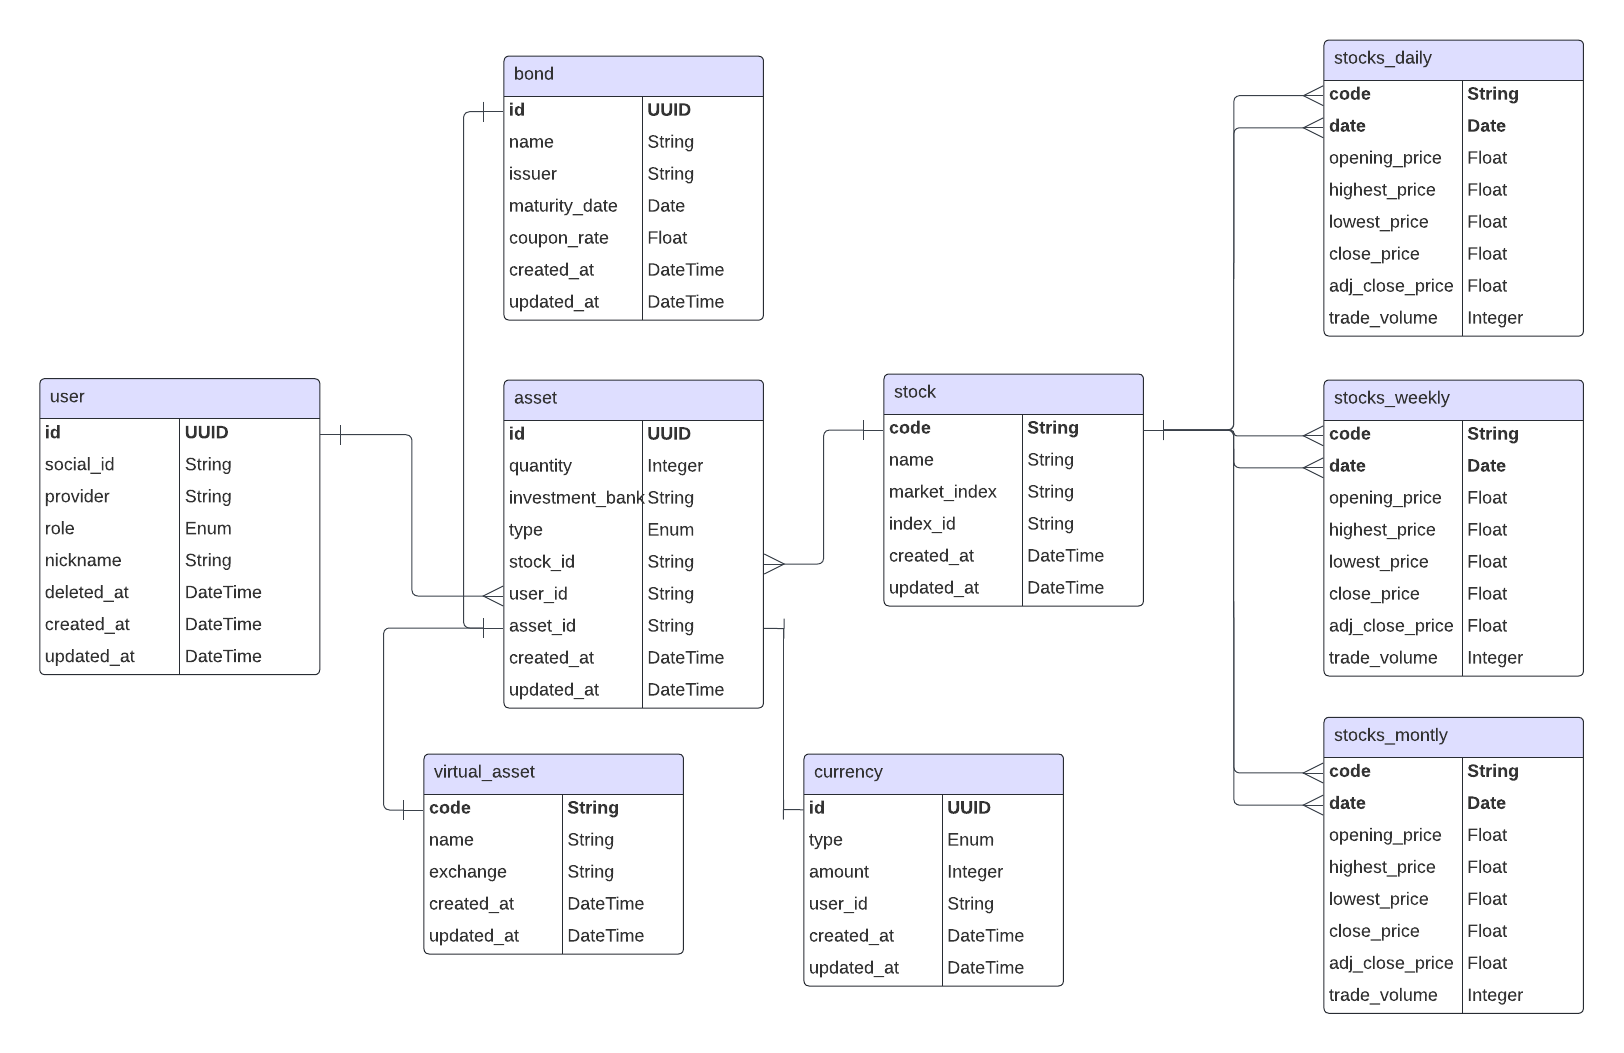
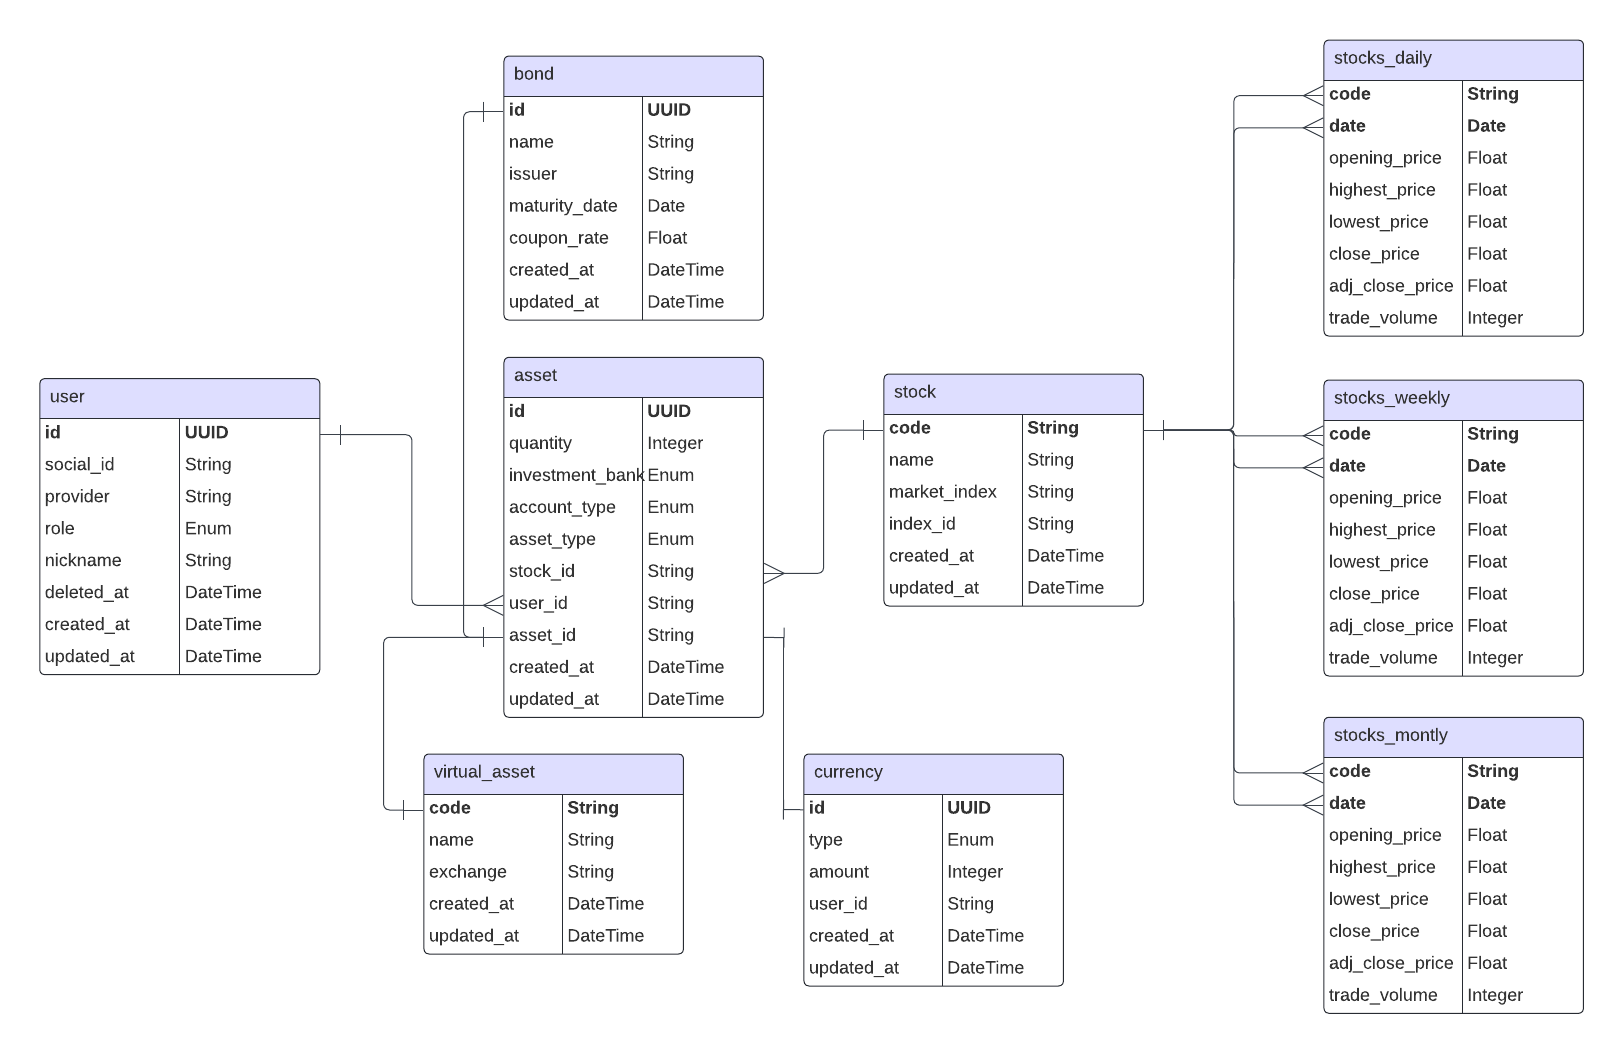
GROW-4 fix : erd asset table field > include account_type

Changed region(s): [[0.2463, 0.3343, 0.4926, 0.699], [0.4618, 0.5166, 0.4926, 0.547]]

diff --git a/backend/test/app/modules/auth/test_repository.py b/backend/test/app/modules/auth/test_repository.py
@@ -3,23 +3,23 @@ from uuid import uuid4
 
 import pytest
 
-from app.common.auth.constants import REDIS_EXPIRE_TIME
-from app.modules.auth.enums import ProviderEnum, UserRoleEnum
-from app.modules.auth.models import User as UserModel
-from app.modules.auth.repository import RedisTokenRepository
+from app.common.auth.constant import REDIS_EXPIRE_TIME_SECOND
+from app.module.auth.enum import ProviderEnum, UserRoleEnum
+from app.module.auth.model import User as UserModel
+from app.module.auth.repository import RedisJWTTokenRepository
 
 
 @pytest.mark.asyncio
 class RedisTokenRepositoryTest:
     async def test_save_token(mock_redis):
-        token_repository = RedisTokenRepository(redis_client=mock_redis)
-        await token_repository.save("user_id", "token_value", REDIS_EXPIRE_TIME)
+        token_repository = RedisJWTTokenRepository(redis_client=mock_redis)
+        await token_repository.save("user_id", "token_value", REDIS_EXPIRE_TIME_SECOND)
         mock_redis.set.assert_called_once_with("user_id", "token_value")
-        mock_redis.expire.assert_called_once_with("user_id", REDIS_EXPIRE_TIME)
+        mock_redis.expire.assert_called_once_with("user_id", REDIS_EXPIRE_TIME_SECOND)
 
     async def test_get_token(mock_redis):
         mock_redis.get.return_value = "token_value"
-        token_repository = RedisTokenRepository(redis_client=mock_redis)
+        token_repository = RedisJWTTokenRepository(redis_client=mock_redis)
         token = await token_repository.get("user_id")
         assert token == "token_value"
         mock_redis.get.assert_called_once_with("user_id")

diff --git a/backend/app/module/asset/model.py b/backend/app/module/asset/model.py
@@ -3,8 +3,8 @@ from uuid import uuid4
 from sqlalchemy import Column, Date, Enum, Float, ForeignKey, Integer, PrimaryKeyConstraint, String, UniqueConstraint
 from sqlalchemy.orm import relationship
 
-from app.common.mixins.timestamps import TimestampMixin
-from app.modules.asset.enum import AssetType, CurrencyType, VirtualExchangeType
+from app.common.mixin.timestamp import TimestampMixin
+from app.module.asset.enum import AccountType, AssetType, CurrencyType, InvestmentBankType, VirtualExchangeType
 from database.config import MySQLBase
 
 
@@ -17,7 +17,8 @@ class Asset(TimestampMixin, MySQLBase):
 
     id = Column(String(36), primary_key=True, default=get_uuid)
     quantity = Column(Integer, nullable=False)
-    investment_bank = Column(String(255), nullable=False, info={"description": "증권사"})
+    investment_bank = Column(Enum(InvestmentBankType), nullable=False, info={"description": "증권사"})
+    account_type = Column(Enum(AccountType), nullable=False, info={"description": "계좌 종류"})
     type = Column(Enum(AssetType), nullable=False, info={"description": "자산 종류"})
     user_id = Column(String(36), ForeignKey("user.id"), nullable=False)
     asset_id = Column(String(36), nullable=False)

diff --git a/backend/app/api/auth/v1/router.py b/backend/app/api/auth/v1/router.py
@@ -1,12 +1,12 @@
 from fastapi import APIRouter, Depends, HTTPException, status
 from sqlalchemy.ext.asyncio import AsyncSession
 
-from app.common.auth.constants import REDIS_EXPIRE_TIME_SECOND
+from app.common.auth.constant import REDIS_EXPIRE_TIME_SECOND
 from app.common.auth.jwt import JWTBuilder
-from app.modules.auth.enums import ProviderEnum
-from app.modules.auth.handlers import Google
-from app.modules.auth.repository import UserRepository
-from app.modules.auth.schemas import NewAccessTokenResponse, TokenRefreshRequest, TokenRequest, TokenResponse
+from app.module.auth.enum import ProviderEnum
+from app.module.auth.handler import Google
+from app.module.auth.repository import UserRepository
+from app.module.auth.schema import NewAccessTokenResponse, TokenRefreshRequest, TokenRequest, TokenResponse
 from database.dependencies import get_mysql_session
 from database.singleton import redis_user_repository
 

diff --git a/backend/app/module/asset/enum.py b/backend/app/module/asset/enum.py
@@ -1,0 +1,41 @@
+from enum import StrEnum
+
+
+class InvestmentBankType(StrEnum):
+    TOSS = "토스증권"
+    MIRAEASSET = "미래에셋증권"
+    SAMSUNGINVESTMENT = "삼성투자증권"
+    KOREAINVESTMENT = "한국투자증권"
+    KB = "KB증권"
+    DAISHIN = "대신증권"
+    NH = "NH투자증권"
+    SHINHANINVESTMENT = "신한투자증권"
+    KIWOOM = "키움증권"
+
+
+class AccountType(StrEnum):
+    ISA = "ISA"
+    IRP = "IRP"
+    PENSION = "개인연금"
+    REGULAR = "일반계좌"
+
+
+class AssetType(StrEnum):
+    STOCK = "stock"
+    BOND = "bond"
+    VIRTUAL_ASSET = "virtual_asset"
+    CURRENCY = "currency"
+    OTHER = "other"
+
+
+class VirtualExchangeType(StrEnum):
+    UPBIT = "upbit"
+    BITHUMB = "bithumb"
+    BINANCE = "binance"
+    WALLET = "wallet"
+
+
+class CurrencyType(StrEnum):
+    KRW = "won"
+    USD = "dollar"
+    JPY = "yen"

diff --git a/backend/data/stock/stock_codes.py b/backend/data/stock/stock_codes.py
@@ -2,9 +2,9 @@ import asyncio
 
 from sqlalchemy.exc import IntegrityError
 
-from app.common.utils.logging import logging
-from app.modules.asset.model import Stock  # noqa: F401 > relationship 설정시 필요합니다.
-from app.modules.auth.models import User  # noqa: F401 > relationship 설정시 필요합니다.
+from app.common.util.logging import logging
+from app.module.asset.model import Stock  # noqa: F401 > relationship 설정시 필요합니다.
+from app.module.auth.model import User  # noqa: F401 > relationship 설정시 필요합니다.
 from data.common.repository import StockRepository
 from data.common.schemas import StockInfo, StockList
 from data.common.service import get_all_stock_code_list

diff --git a/backend/database/create_tables.py b/backend/database/create_tables.py
@@ -4,7 +4,7 @@ import os
 from sqlalchemy import create_engine
 from sqlalchemy.exc import SQLAlchemyError
 
-from app.modules.asset.model import (  # noqa > relationship purpose
+from app.module.asset.model import (  # noqa > relationship purpose
     Asset,
     Bond,
     Currency,
@@ -14,7 +14,7 @@ from app.modules.asset.model import (  # noqa > relationship purpose
     StockWeekly,
     VirtualAsset,
 )
-from app.modules.auth.models import User  # noqa > relationship purpose
+from app.module.auth.model import User  # noqa > relationship purpose
 from database.config import MYSQL_URL, MySQLBase
 
 os.makedirs("./logs", exist_ok=True)

diff --git a/backend/app/api/asset/v1/router.py b/backend/app/api/asset/v1/router.py
@@ -4,9 +4,9 @@ from sqlalchemy.exc import SQLAlchemyError
 from sqlalchemy.ext.asyncio import AsyncSession
 
 from app.common.auth.security import verify_jwt_token
-from app.common.schemas import JsonResponse
-from app.modules.asset.repository import AssetRepository
-from app.modules.asset.schemas import AssetTransaction, AssetTransactionRequest
+from app.common.schema import JsonResponse
+from app.module.asset.repository import AssetRepository
+from app.module.asset.schemas import AssetTransaction, AssetTransactionRequest
 from database.dependencies import get_mysql_session
 
 asset_router = APIRouter(prefix="/v1")

diff --git a/backend/main.py b/backend/main.py
@@ -6,8 +6,8 @@ from starlette.middleware.sessions import SessionMiddleware
 
 from app.api.asset.v1.router import asset_router
 from app.api.auth.v1.router import auth_router
-from app.modules.asset.model import Asset  # noqa: F401 > table 생성 시 필요합니다.
-from app.modules.auth.models import User  # noqa: F401 > table 생성 시 필요합니다.
+from app.module.asset.model import Asset  # noqa: F401 > table 생성 시 필요합니다.
+from app.module.auth.model import User  # noqa: F401 > table 생성 시 필요합니다.
 
 app = FastAPI()
 

diff --git a/backend/app/module/auth/repository.py b/backend/app/module/auth/repository.py
@@ -5,9 +5,9 @@ from sqlalchemy.ext.asyncio import AsyncSession
 from sqlalchemy.future import select
 
 from app.common.repository.base_repository import AbstractCRUDRepository
-from app.modules.auth.enums import ProviderEnum, UserRoleEnum
-from app.modules.auth.models import User as UserModel
-from app.modules.auth.schemas import User as UserSchema
+from app.module.auth.enum import ProviderEnum, UserRoleEnum
+from app.module.auth.model import User as UserModel
+from app.module.auth.schema import User as UserSchema
 
 
 class UserRepository:

diff --git a/backend/app/module/auth/handler.py b/backend/app/module/auth/handler.py
@@ -7,8 +7,8 @@ from google.auth.transport import requests
 from google.oauth2 import id_token
 
 from app.common.auth.jwt import JWTBuilder
-from app.modules.auth.repository import UserRepository
-from app.modules.auth.schemas import User as UserSchema
+from app.module.auth.repository import UserRepository
+from app.module.auth.schema import User as UserSchema
 
 load_dotenv()
 GOOGLE_CLIENT_ID = getenv("GOOGLE_CLIENT_ID", None)

diff --git a/backend/app/common/auth/jwt.py b/backend/app/common/auth/jwt.py
@@ -6,7 +6,7 @@ from dotenv import load_dotenv
 from fastapi import HTTPException, status
 from jwt import ExpiredSignatureError, InvalidTokenError, decode, encode
 
-from app.common.auth.constants import JWT_ACCESS_TIME_MINUTE, JWT_REFRESH_TIME_MINUTE
+from app.common.auth.constant import JWT_ACCESS_TIME_MINUTE, JWT_REFRESH_TIME_MINUTE
 
 load_dotenv()
 JWT_SECRET_KEY = getenv("JWT_SECRET", None)

diff --git a/backend/app/module/auth/model.py b/backend/app/module/auth/model.py
@@ -3,8 +3,8 @@ from uuid import uuid4
 from sqlalchemy import Column, DateTime, Enum, String
 from sqlalchemy.orm import relationship
 
-from app.common.mixins.timestamps import TimestampMixin
-from app.modules.auth.enums import UserRoleEnum
+from app.common.mixin.timestamp import TimestampMixin
+from app.module.auth.enum import UserRoleEnum
 from database.config import MySQLBase
 
 
